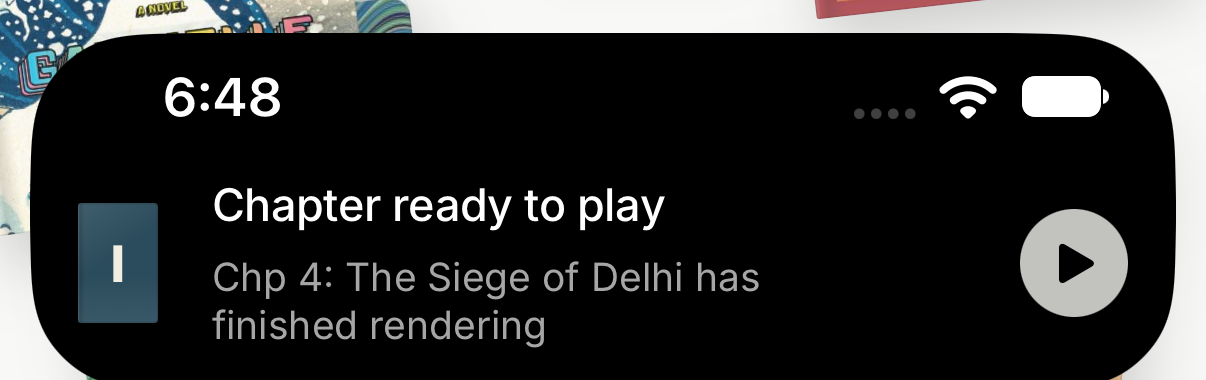
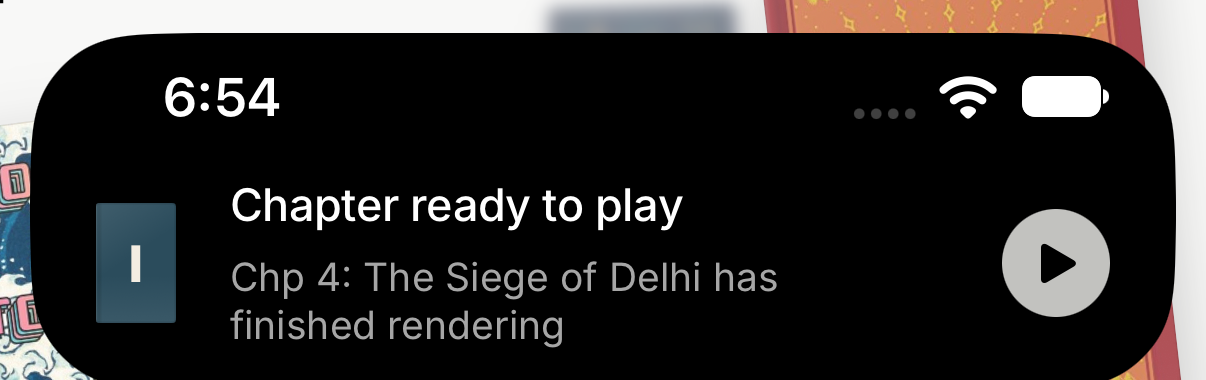
The capsule's contents step in from its rim, so the cover and the Play key sit inside the card

diff --git a/App/T2SReader/Design/MockIsland.swift b/App/T2SReader/Design/MockIsland.swift
@@ -68,7 +68,9 @@ struct MockIsland: View {
     var body: some View {
         content
             .frame(maxWidth: .infinity, alignment: .leading)
-            .padding(.horizontal, 16)
+            // 22, not 16 (owner, 2026-09-17): the cover and the Play disc are objects with their
+            // own edges, and at 16 both sat against the capsule's rim rather than inside it.
+            .padding(.horizontal, 22)
             .padding(.top, contentTopInset)
             .padding(.bottom, 14)
             .background(
